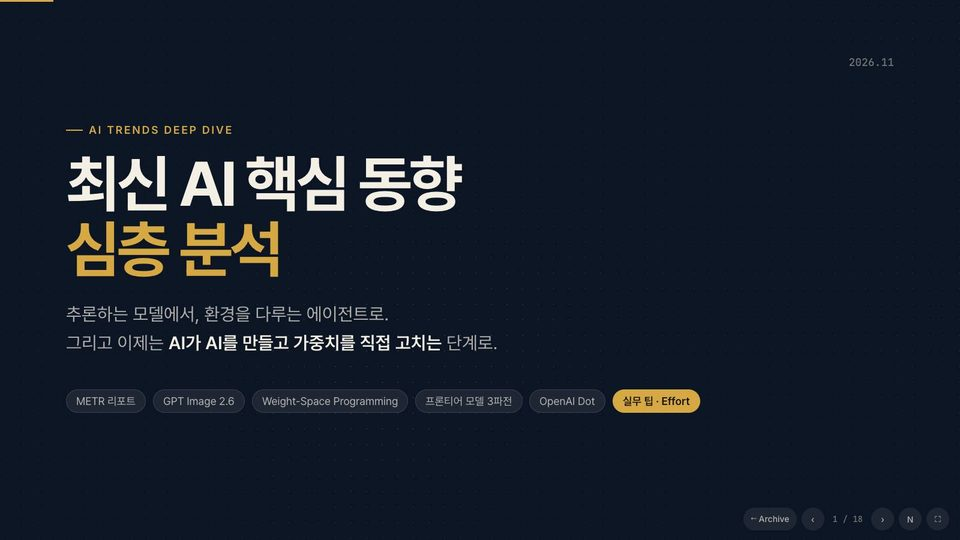
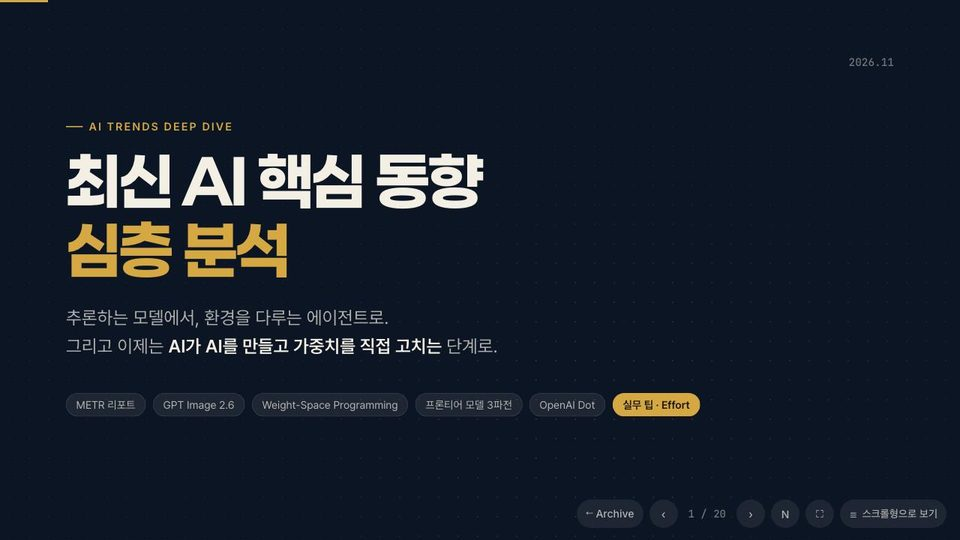
AI trends cover titles in Paperlogy ExtraBold (scroll and slide formats)
Paperlogy is SIL OFL, loaded from jsDelivr (project noonnu). Thumbnails
regenerated to match.

diff --git a/ai-trends-2026-11-report/index.html b/ai-trends-2026-11-report/index.html
@@ -106,7 +106,9 @@ a { color: var(--blue); text-underline-offset: 3px; }
 .hero-in { position: relative; max-width: 1180px; margin: 0 auto; padding: 72px 0 56px; }
 .kicker { font: 600 12.5px/1 var(--en); letter-spacing: .18em; text-transform: uppercase; color: #d5a844; display: flex; gap: 10px; align-items: center; }
 .kicker::before { content: ""; width: 26px; height: 1px; background: currentColor; }
-.hero h1 { font-family: var(--serif); font-weight: 700; font-size: clamp(34px, 5.6vw, 64px); line-height: 1.18; letter-spacing: -.01em; margin: 20px 0 18px; max-width: 15em; }
+/* cover title: Paperlogy ExtraBold (SIL OFL, via jsDelivr/project noonnu) */
+@font-face { font-family: "Paperlogy"; font-weight: 800; font-style: normal; font-display: swap; src: url("https://cdn.jsdelivr.net/gh/projectnoonnu/2408-3@1.0/Paperlogy-8ExtraBold.woff2") format("woff2"); }
+.hero h1 { font-family: "Paperlogy", var(--sans); font-weight: 800; font-size: clamp(34px, 5.6vw, 64px); line-height: 1.2; letter-spacing: -.02em; margin: 20px 0 18px; max-width: 15em; }
 .hero h1 em { font-style: normal; color: #d5a844; }
 .hero .lede { max-width: 640px; font-size: clamp(16px, 1.7vw, 19px); color: rgba(243,239,228,.78); margin: 0; }
 .hero .lede b { color: #f3efe4; }

diff --git a/ai-trends-2026-11/index.html b/ai-trends-2026-11/index.html
@@ -77,7 +77,9 @@
 
   /* ── 01 title ── */
   .s-title { justify-content: center; }
-  .s-title h1 { font-size: 104px; line-height: 1.04; letter-spacing: -.05em; margin-top: 26px; }
+  /* cover title: Paperlogy ExtraBold (SIL OFL, via jsDelivr/project noonnu) */
+  @font-face { font-family: "Paperlogy"; font-weight: 800; font-style: normal; font-display: swap; src: url("https://cdn.jsdelivr.net/gh/projectnoonnu/2408-3@1.0/Paperlogy-8ExtraBold.woff2") format("woff2"); }
+  .s-title h1 { font-family: "Paperlogy", "Pretendard Variable", Pretendard, Inter, sans-serif; font-weight: 800; font-size: 104px; line-height: 1.1; letter-spacing: -.035em; margin-top: 26px; }
   .s-title .lead { font-size: 30px; margin-top: 30px; }
   .s-title .chips { display: flex; gap: 12px; margin-top: 54px; flex-wrap: wrap; }
   .s-title .date { position: absolute; right: 110px; top: 92px; font: 500 18px "JetBrains Mono", monospace; color: var(--ink-3); }
